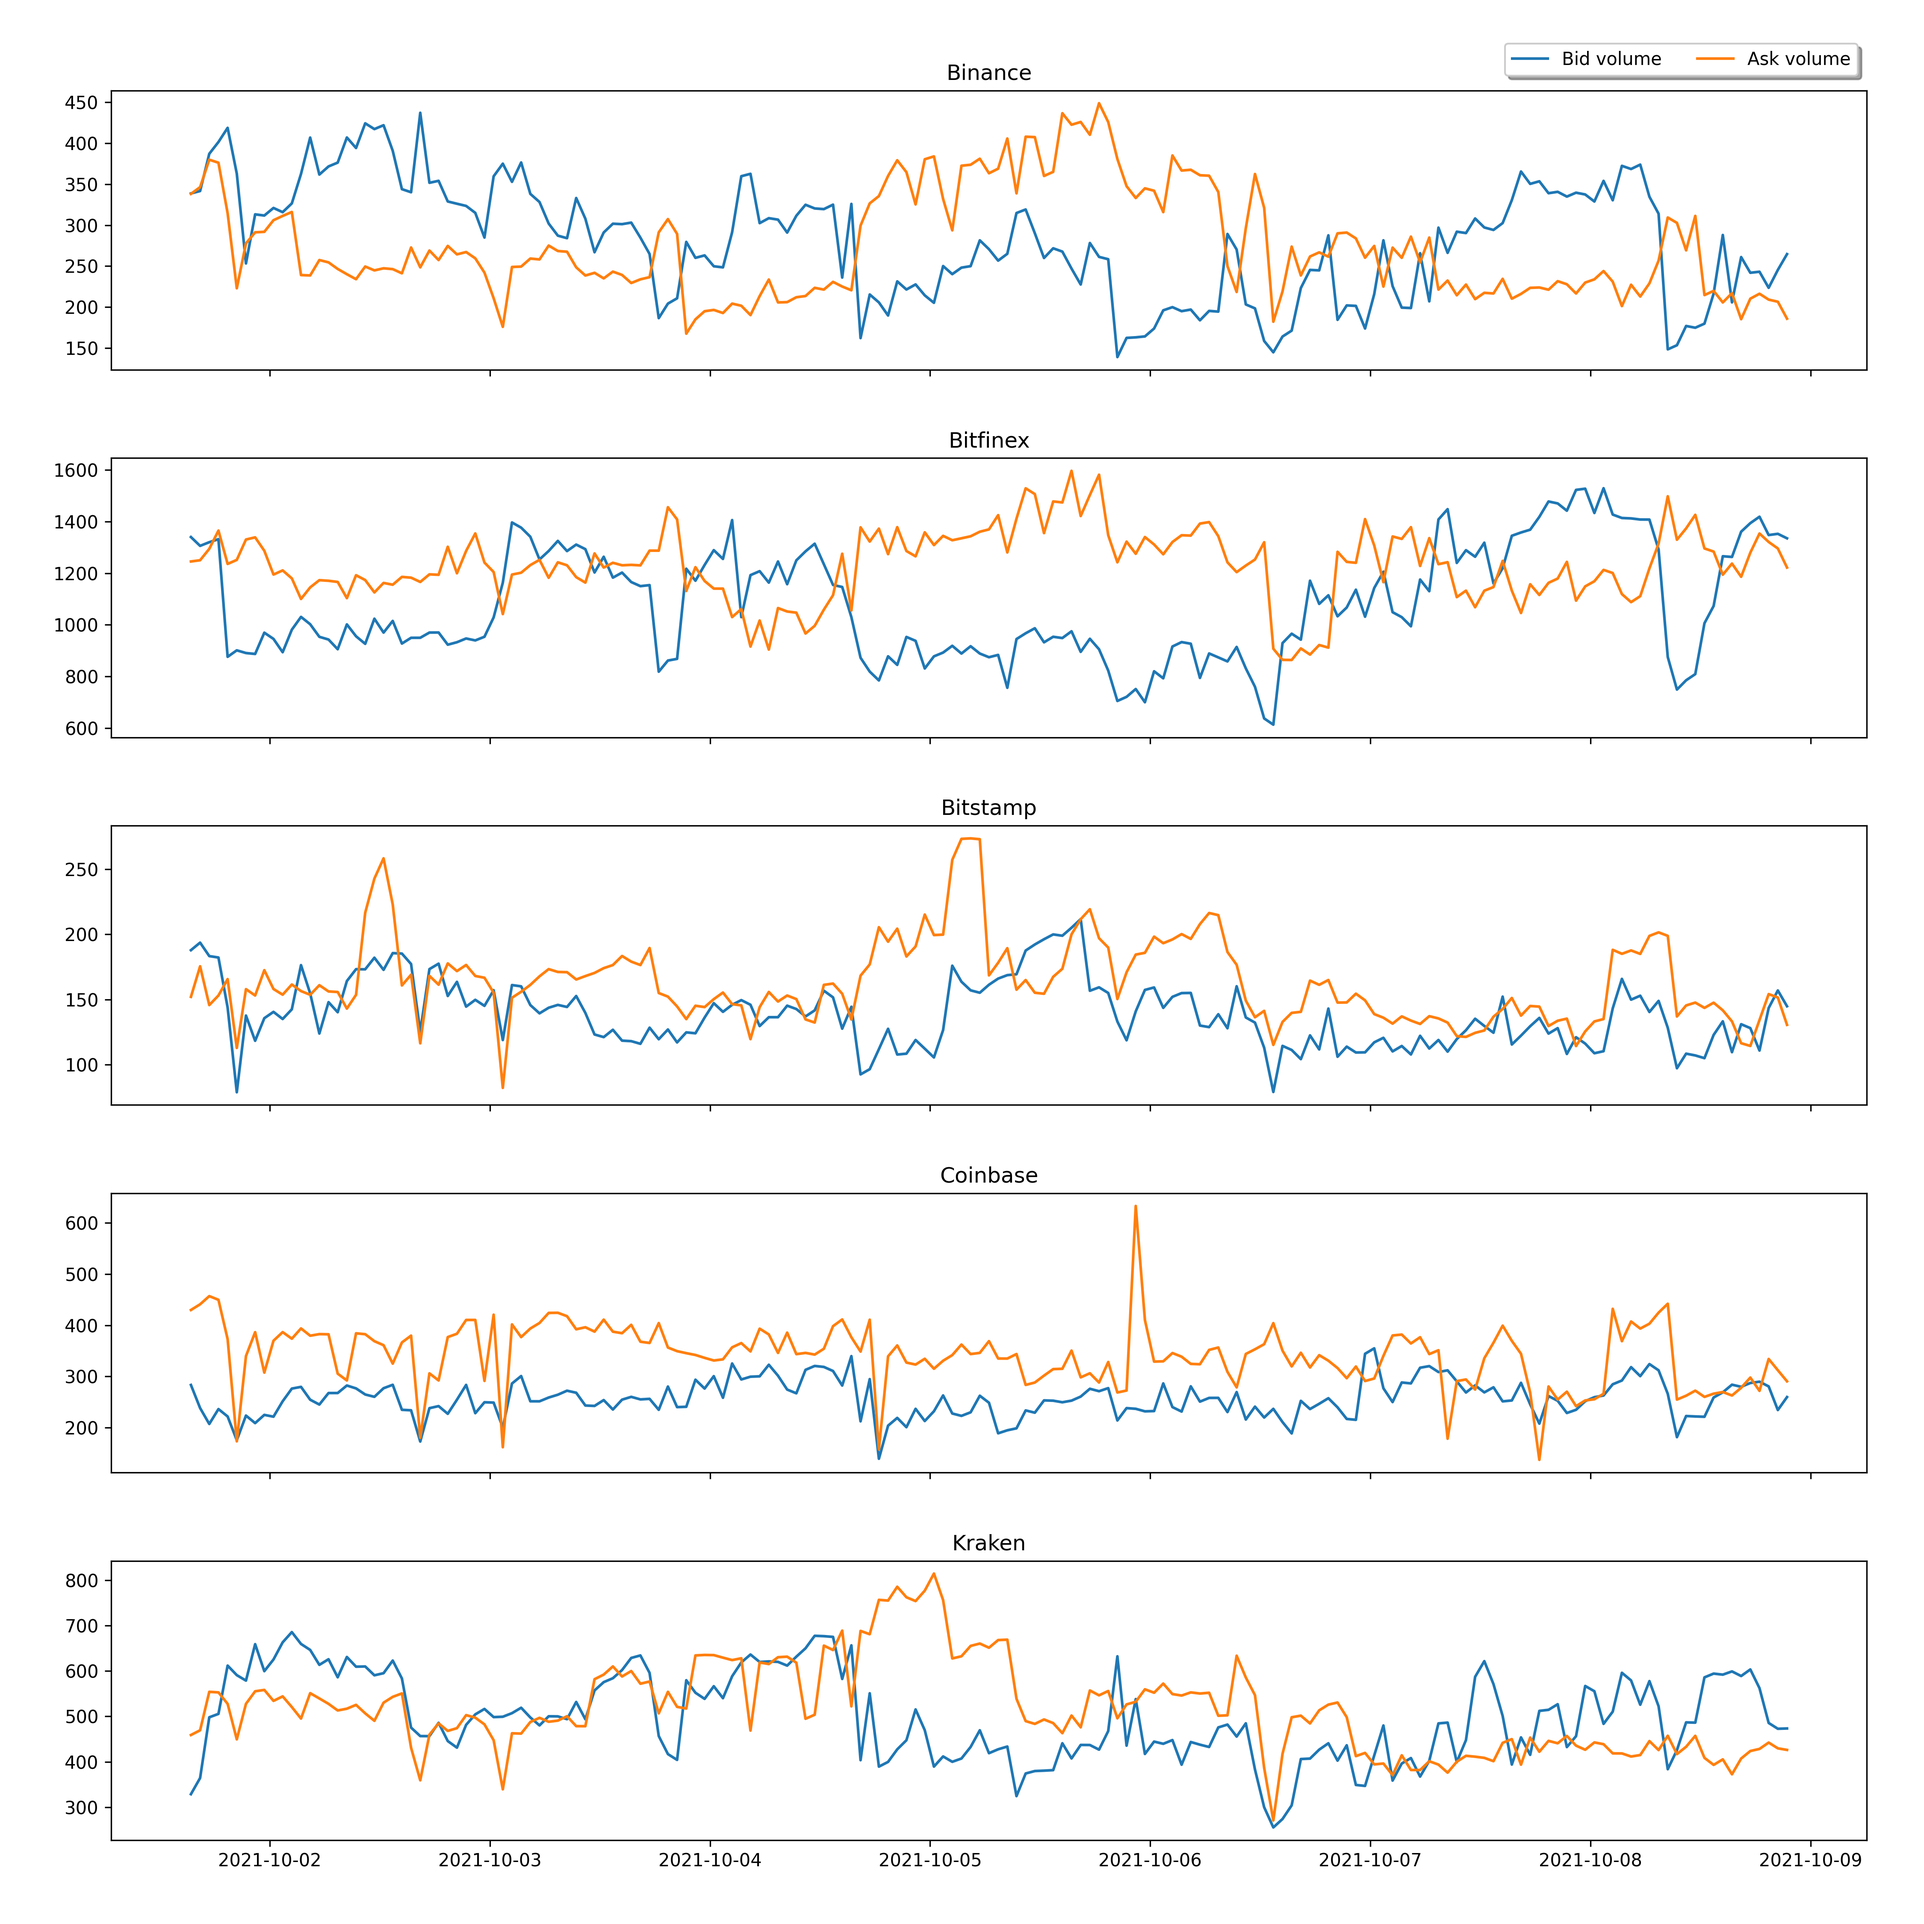
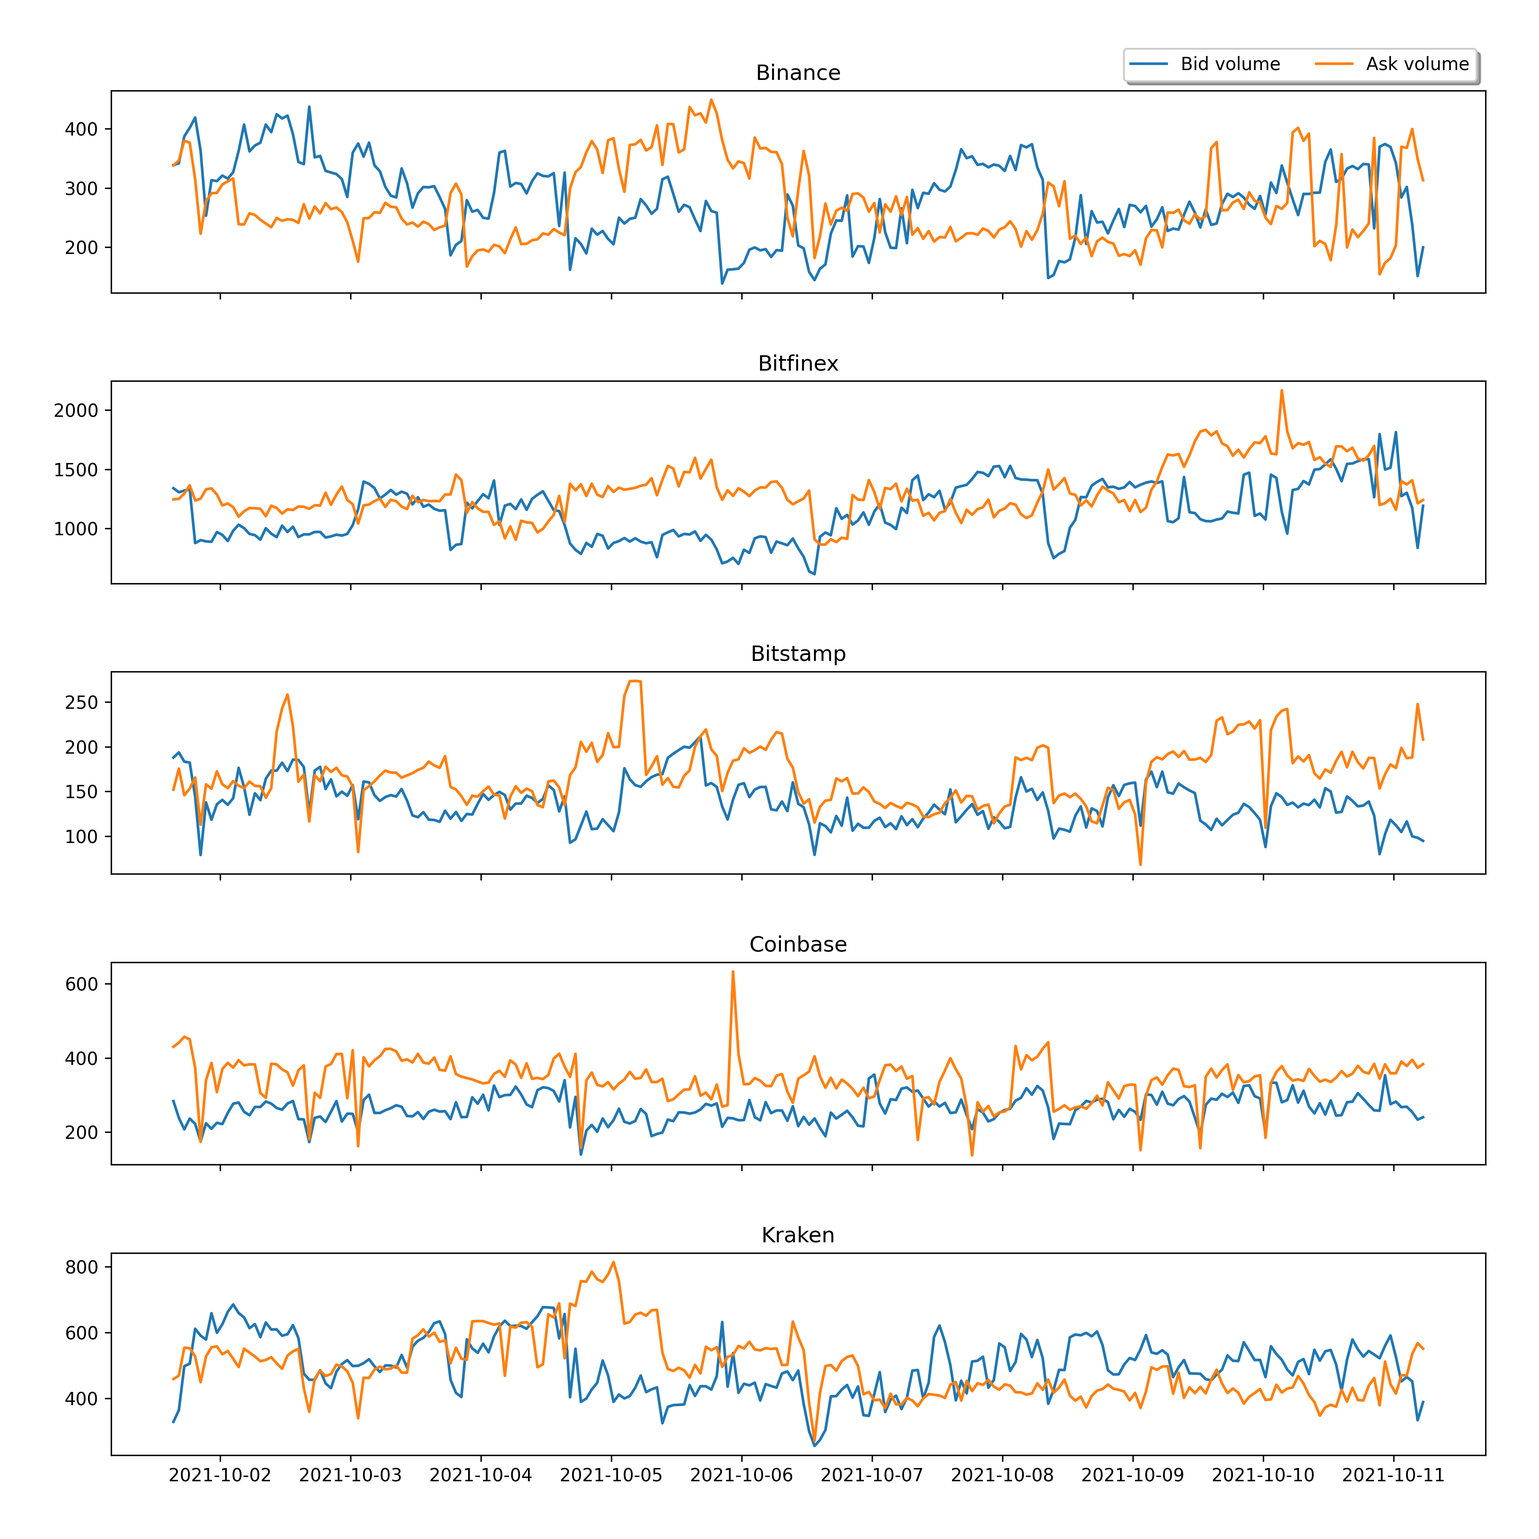
new plots

diff --git a/tools/market_depth_visualizer.py b/tools/market_depth_visualizer.py
@@ -28,84 +28,88 @@ for market in listdir(main_path):
 
 # Market depth across exchanges
 
-# plt.rcParams["figure.figsize"] = (15, 10)
-# for market in markets:
-#     plt.plot(pd.to_datetime(market_depth.loc[market_depth["market"] == market]["timestamp"], format="%Y.%m.%d.%H-%M"),
-#              market_depth.loc[market_depth["market"] == market]["bid_amount"] +
-#              market_depth.loc[market_depth["market"] == market]["ask_amount"],
-#              label=market.capitalize())
-#
-# plt.title('Market depth across exchanges (sum of bid and ask volume 5%)')
-# plt.ylabel("Depth")
-# plt.legend()
-# plt.savefig(plot_path / 'market_depth.png', dpi=300)
+plt.rcParams["figure.figsize"] = (15, 10)
+for market in markets:
+    plt.plot(pd.to_datetime(market_depth.loc[market_depth["market"] == market]["timestamp"], format="%Y.%m.%d.%H-%M"),
+             market_depth.loc[market_depth["market"] == market]["bid_amount"] +
+             market_depth.loc[market_depth["market"] == market]["ask_amount"],
+             label=market.capitalize())
+
+plt.title('Market depth across exchanges (sum of bid and ask volume 5%)')
+plt.ylabel("Depth")
+plt.legend()
+# plt.show()
+plt.savefig(plot_path / 'market_depth.png', dpi=300)
 
 
 # Bid-ask differences across exchanges
 
-# plt.rcParams["figure.figsize"] = (15, 15)
-# fig, axs = plt.subplots(5)
-# for item, ax in enumerate(axs):
-#     market = markets[item]
-#     ax.plot(pd.to_datetime(market_depth.loc[market_depth["market"] == market]["timestamp"], format="%Y.%m.%d.%H-%M"),
-#             market_depth.loc[market_depth["market"] == market]["bid_amount"],
-#             label="Bid volume")
-#     ax.plot(pd.to_datetime(market_depth.loc[market_depth["market"] == market]["timestamp"], format="%Y.%m.%d.%H-%M"),
-#             market_depth.loc[market_depth["market"] == market]["ask_amount"],
-#             label="Ask volume")
-#     ax.set_title(market.capitalize())
-#     if item == 0:
-#         box = ax.get_position()
-#         ax.set_position([box.x0, box.y0 + box.height * 0.1,
-#                          box.width, box.height * 0.9])
-#         ax.legend(loc='upper right', bbox_to_anchor=(1, 1.2),
-#                   fancybox=True, shadow=True, ncol=5)
-#
-# for ax in axs.flat:
-#     ax.label_outer()
-#
-# plt.tight_layout(pad=3.0)
-# plt.savefig(plot_path / 'bid_ask_diff.png', dpi=300)
+plt.rcParams["figure.figsize"] = (12, 12)
+fig, axs = plt.subplots(5)
+for item, ax in enumerate(axs):
+    market = markets[item]
+    ax.plot(pd.to_datetime(market_depth.loc[market_depth["market"] == market]["timestamp"], format="%Y.%m.%d.%H-%M"),
+            market_depth.loc[market_depth["market"] == market]["bid_amount"],
+            label="Bid volume")
+    ax.plot(pd.to_datetime(market_depth.loc[market_depth["market"] == market]["timestamp"], format="%Y.%m.%d.%H-%M"),
+            market_depth.loc[market_depth["market"] == market]["ask_amount"],
+            label="Ask volume")
+    ax.set_title(market.capitalize())
+    if item == 0:
+        box = ax.get_position()
+        ax.set_position([box.x0, box.y0 + box.height * 0.1,
+                         box.width, box.height * 0.9])
+        ax.legend(loc='upper right', bbox_to_anchor=(1, 1.25),
+                  fancybox=True, shadow=True, ncol=5)
+
+for ax in axs.flat:
+    ax.label_outer()
+plt.tight_layout(pad=3.0)
+# plt.show()
+plt.savefig(plot_path / 'bid_ask_diff.png', dpi=300)
 
 
 # Market spreads across exchanges
 
-# plt.rcParams["figure.figsize"] = (15, 10)
-# for market in markets:
-#     plt.plot(pd.to_datetime(market_spread.loc[market_spread["market"] == market]["timestamp"], format="%Y.%m.%d.%H-%M"),
-#              market_spread.loc[market_spread["market"] == market]["lowest_ask"] -
-#              market_spread.loc[market_spread["market"] == market]["highest_bid"],
-#              label=market.capitalize())
-# plt.title('Market spread across exchanges')
-# plt.ylabel("Spread")
-# plt.legend()
-# plt.savefig(plot_path / 'market_spread.png', dpi=300)
+plt.rcParams["figure.figsize"] = (18, 10)
+for market in markets:
+    plt.plot(pd.to_datetime(market_spread.loc[market_spread["market"] == market]["timestamp"], format="%Y.%m.%d.%H-%M"),
+             market_spread.loc[market_spread["market"] == market]["lowest_ask"] -
+             market_spread.loc[market_spread["market"] == market]["highest_bid"],
+             label=market.capitalize())
+plt.title('Market spread across exchanges')
+plt.ylabel("Spread")
+plt.legend()
+# plt.show()
+plt.savefig(plot_path / 'market_spread.png', dpi=300)
 
 
 # Price differences
-# plt.rcParams["figure.figsize"] = (15, 10)
-# base_currency = "bitfinex"
-# for market in markets:
-#     plt.plot(pd.to_datetime(market_spread.loc[market_spread["market"] == market]["timestamp"], format="%Y.%m.%d.%H-%M"),
-#              ((market_spread.loc[market_spread["market"] == market]["lowest_ask"] +
-#                market_spread.loc[market_spread["market"] == market]["highest_bid"]) / 2).reset_index(drop=True) /
-#              ((market_spread.loc[market_spread["market"] == base_currency]["lowest_ask"] +
-#                market_spread.loc[market_spread["market"] == base_currency]["highest_bid"]) / 2).reset_index(drop=True),
-#              label=market.capitalize())
-# plt.title("Price differences comapred to " + base_currency.capitalize())
-# plt.legend()
-# current_values = plt.gca().get_yticks().tolist()
-# plt.gca().set_yticks(current_values)
-# plt.gca().set_yticklabels(['{:.2%}'.format(x-1) for x in current_values])
-# plot_name = base_currency + "_price_diff.png"
-# plt.savefig(plot_path / plot_name, dpi=300)
+
+plt.rcParams["figure.figsize"] = (15, 10)
+base_currency = "bitfinex"
+for market in markets:
+    plt.plot(pd.to_datetime(market_spread.loc[market_spread["market"] == market]["timestamp"], format="%Y.%m.%d.%H-%M"),
+             ((market_spread.loc[market_spread["market"] == market]["lowest_ask"] +
+               market_spread.loc[market_spread["market"] == market]["highest_bid"]) / 2).reset_index(drop=True) /
+             ((market_spread.loc[market_spread["market"] == base_currency]["lowest_ask"] +
+               market_spread.loc[market_spread["market"] == base_currency]["highest_bid"]) / 2).reset_index(drop=True),
+             label=market.capitalize())
+plt.title("Price differences comapred to " + base_currency.capitalize())
+plt.legend()
+current_values = plt.gca().get_yticks().tolist()
+plt.gca().set_yticks(current_values)
+plt.gca().set_yticklabels(['{:.2%}'.format(x-1) for x in current_values])
+plot_name = base_currency + "_price_diff.png"
+# plt.show()
+plt.savefig(plot_path / plot_name, dpi=300)
 
 
 # Hour aggregation
 market_depth["timestamp"] = pd.to_datetime(market_depth["timestamp"], format="%Y.%m.%d.%H-%M")
 market_depth["hour"] = market_depth["timestamp"].dt.hour
 
-plt.rcParams["figure.figsize"] = (7, 10)
+plt.rcParams["figure.figsize"] = (8, 11)
 fig, axs = plt.subplots(5)
 for item, ax in enumerate(axs):
     market = markets[item]
@@ -118,14 +122,21 @@ for item, ax in enumerate(axs):
            bottom=market_depth.loc[market_depth["market"] == market].groupby("hour")["bid_amount"].mean(),
            label='Ask volume')
     ax.set_title(market.capitalize())
+    if item == 0:
+        box = ax.get_position()
+        ax.set_position([box.x0, box.y0 + box.height * 0.1,
+                         box.width, box.height * 0.9])
+        ax.legend(loc='upper right', bbox_to_anchor=(1.01, 1.25),
+                  fancybox=True, shadow=True, ncol=5)
+    if item == 4:
+        ax.set_xlabel('Bid and ask volumes in each hour (UTC)')
 
 for ax in axs.flat:
     ax.label_outer()
 plt.tight_layout(pad=1.0)
-#ax.set_ylabel('Volume')
-#ax.set_title('Average bid and ask volumes in each hour (UTC)')
-#ax.legend()
-plt.show()
+plt.xticks(range(0, 24))
+# plt.show()
+plt.savefig(plot_path / 'hour_volumes.png', dpi=300)
 
 #TODO: market depth - price plot
 #TODO: x amount of bitcoin sold - price change
